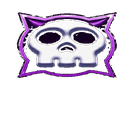
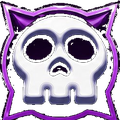
ドロップ画像を正方形で正確に切り出し・Canvas引き伸ばし防止

diff --git a/style.css b/style.css
@@ -54,7 +54,7 @@ main{padding:12px 12px 80px;display:flex;flex-direction:column;align-items:cente
 
 /* BOARD */
 #board-wrapper{width:100%;position:relative}
-#puzzle-board{display:block;width:100%;border-radius:10px;border:2px solid var(--border);box-shadow:0 0 24px rgba(79,142,247,.12);cursor:grab;touch-action:none;user-select:none;-webkit-user-select:none}
+#puzzle-board{display:block;max-width:100%;border-radius:10px;border:2px solid var(--border);box-shadow:0 0 24px rgba(79,142,247,.12);cursor:grab;touch-action:none;user-select:none;-webkit-user-select:none}
 #puzzle-board:active{cursor:grabbing}
 
 /* CONTROLS */

diff --git a/game.js b/game.js
@@ -52,11 +52,14 @@ let CS = 72;
 
 function resizeCanvas() {
   const maxW = Math.min(document.body.clientWidth - 24, 560);
+  // セルを正方形に保つ: 幅と高さが等しくなるCSを計算
   CS = Math.floor(maxW / G.cols);
   canvas.width  = CS * G.cols;
   canvas.height = CS * G.rows;
+  // style.widthを明示指定してブラウザによる引き伸ばしを防ぐ
   canvas.style.width  = canvas.width  + 'px';
   canvas.style.height = canvas.height + 'px';
+  canvas.style.maxWidth = '100%';
 }
 
 // =========================================================
